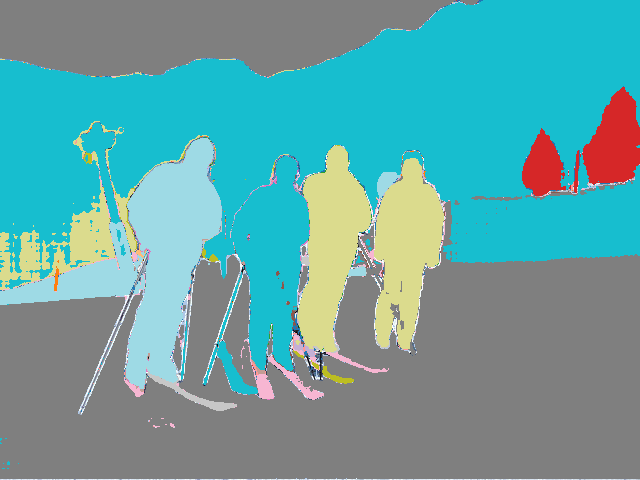
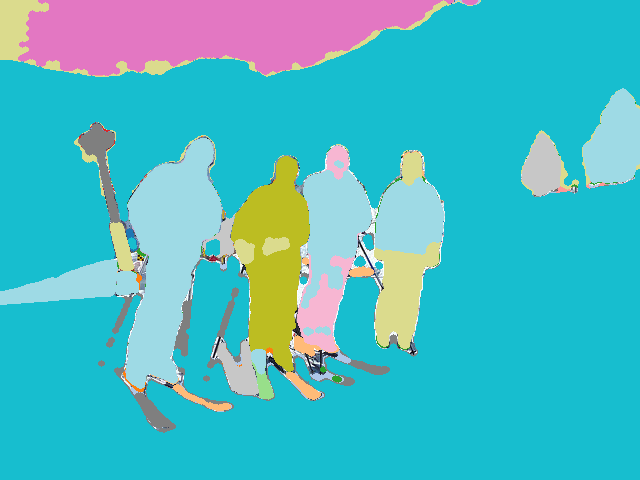
modified:   server/utils/sam/results_relation/val2017/000000053626_relations_64-32.png 	modified:   server/utils/sam/segmentation_dir.py

diff --git a/server/utils/sam/segmentation_dir.py b/server/utils/sam/segmentation_dir.py
@@ -1286,7 +1286,7 @@ class SAMEverything:
                     points.append([x, y])
         return points
 
-    def merge_similar_masks(self, masks, image, color_thresh=20):
+    def merge_similar_masks(self, masks, image, color_thresh=20, distance_thresh=100, iou_thresh=0.1):
         merged = []
         used = set()
         for i, m1 in enumerate(masks):
@@ -1294,15 +1294,31 @@ class SAMEverything:
                 continue
             mask1 = self._sparse_to_dense_mask(m1['segmentation_sparse'])
             color1 = image[mask1].mean(axis=0)
+            bbox1 = m1['bbox']  # [x1, y1, x2, y2]
+            center1 = [(bbox1[0] + bbox1[2]) / 2, (bbox1[1] + bbox1[3]) / 2]  # 중심점
             group = [m1]
             for j, m2 in enumerate(masks):
                 if j <= i or j in used:
                     continue
                 mask2 = self._sparse_to_dense_mask(m2['segmentation_sparse'])
                 color2 = image[mask2].mean(axis=0)
-                if np.linalg.norm(color1 - color2) < color_thresh:
-                    group.append(m2)
-                    used.add(j)
+                bbox2 = m2['bbox']
+                center2 = [(bbox2[0] + bbox2[2]) / 2, (bbox2[1] + bbox2[3]) / 2]
+                
+                # 색상 유사성 체크
+                color_similar = np.linalg.norm(color1 - color2) < color_thresh
+                
+                # 공간적 거리 체크
+                spatial_distance = np.sqrt((center1[0] - center2[0])**2 + (center1[1] - center2[1])**2)
+                spatial_close = spatial_distance < distance_thresh
+                
+                # 색상이 비슷하고 공간적으로 가까울 때만 합치기
+                if color_similar and spatial_close:
+                    # IoU 체크 추가 (선택적)
+                    iou = self._calculate_iou(m1['segmentation_sparse'], m2['segmentation_sparse'])
+                    if iou > iou_thresh:  # 최소한 10% 겹치는 경우만 합치기
+                        group.append(m2)
+                        used.add(j)
             # group을 하나로 합치기
             merged_mask = np.any([self._sparse_to_dense_mask(m['segmentation_sparse']) for m in group], axis=0)
             coords = np.where(merged_mask)
@@ -1366,12 +1382,26 @@ def iterative_mask_generation(
     max_mask_area = int(width * height // max_mask_area_ratio)
     current_overlay = np.zeros((height, width), dtype=bool)
 
+    width_min = width*0.015
+    height_min = height*0.015
+
+    min_length = int(min(width_min, height_min))
+
+    target = np.logical_and(target, np.logical_and(width > width_min, height > height_min))
+
     target_255 = target * 255
     for iter_idx in range(max_iter):
         
         uncovered_area = np.logical_and(target, np.logical_not(current_overlay))
 
-        init_grid = max(4,init_grid)
+        init_grid = max(int(min_length),init_grid)
+
+        max_complexity_ratio = max(max_complexity_ratio, 10)
+        min_solidity = min(min_solidity, 0.1)
+
+        if init_grid == int(min_length):
+            break
+            
         uncovered_points = sam_everything.get_uncovered_points(uncovered_area, step=init_grid)
         
         # print("target True count:", np.sum(target))
@@ -1432,7 +1462,7 @@ def iterative_mask_generation(
                 print(f"    Error at point {pt}: {e}")
         all_masks += new_masks
 
-        merged_masks = sam_everything.merge_similar_masks(all_masks, image, color_thresh=color_thresh)
+        merged_masks = sam_everything.merge_similar_masks(all_masks, image, color_thresh=color_thresh, distance_thresh=10, iou_thresh=0.05)
 
         for mask_dict in merged_masks:
             mask = sam_everything._sparse_to_dense_mask(mask_dict['segmentation_sparse'])
@@ -1449,10 +1479,49 @@ def iterative_mask_generation(
         max_mask_area = int(max_mask_area * 2)
         min_mask_area = int(min_mask_area / 2)
         init_grid = int(init_grid / 2)
-        max_complexity_ratio = max_complexity_ratio + 1.0
-        min_solidity = min_solidity - 0.04
+        max_complexity_ratio = max_complexity_ratio + 1
+        min_solidity = min_solidity - 0.1
 
-    return merged_masks, current_overlay
+    # 최종 결과에 모폴로지 연산 적용하여 마스크 정리
+    cleaned_masks = []
+    for mask_dict in merged_masks:
+        # sparse mask를 dense로 변환
+        dense_mask = sam_everything._sparse_to_dense_mask(mask_dict['segmentation_sparse'])
+        
+        # 모폴로지 연산으로 마스크 정리
+        import cv2
+        kernel = cv2.getStructuringElement(cv2.MORPH_ELLIPSE, (int(min_length), int(min_length)))
+        cleaned_mask = cv2.morphologyEx(dense_mask.astype(np.uint8), cv2.MORPH_CLOSE, kernel)
+        cleaned_mask = cv2.morphologyEx(cleaned_mask, cv2.MORPH_OPEN, kernel)
+        cleaned_mask = cleaned_mask.astype(bool)
+        
+        # 정리된 마스크의 좌표 추출
+        cleaned_coords = np.where(cleaned_mask)
+        
+        # 정리된 마스크로 업데이트
+        cleaned_mask_dict = mask_dict.copy()
+        cleaned_mask_dict['segmentation_sparse'] = {
+            'rows': cleaned_coords[0],
+            'cols': cleaned_coords[1],
+            'shape': cleaned_mask.shape
+        }
+        cleaned_mask_dict['area'] = int(np.sum(cleaned_mask))
+        cleaned_mask_dict['bbox'] = sam_everything._mask_to_bbox(cleaned_mask)
+        
+        cleaned_masks.append(cleaned_mask_dict)
+    
+    # 정리된 마스크들의 overlay 계산
+    cleaned_overlay = np.zeros((height, width), dtype=bool)
+    for cleaned_mask_dict in cleaned_masks:
+        dense_mask = sam_everything._sparse_to_dense_mask(cleaned_mask_dict['segmentation_sparse'])
+        cleaned_overlay = np.logical_or(cleaned_overlay, dense_mask)
+    
+    # 정리된 마스크의 최종 커버리지 계산
+    covered_in_target = np.logical_and(cleaned_overlay, target)
+    final_coverage = np.sum(covered_in_target) / np.sum(target)
+    print(f"Final cleaned coverage: {final_coverage:.3f}")
+    
+    return cleaned_masks, cleaned_overlay
 
 def process_folder_with_relations(input_folder: str, output_folder: str,
                                 model_type: str = "vit_h",
